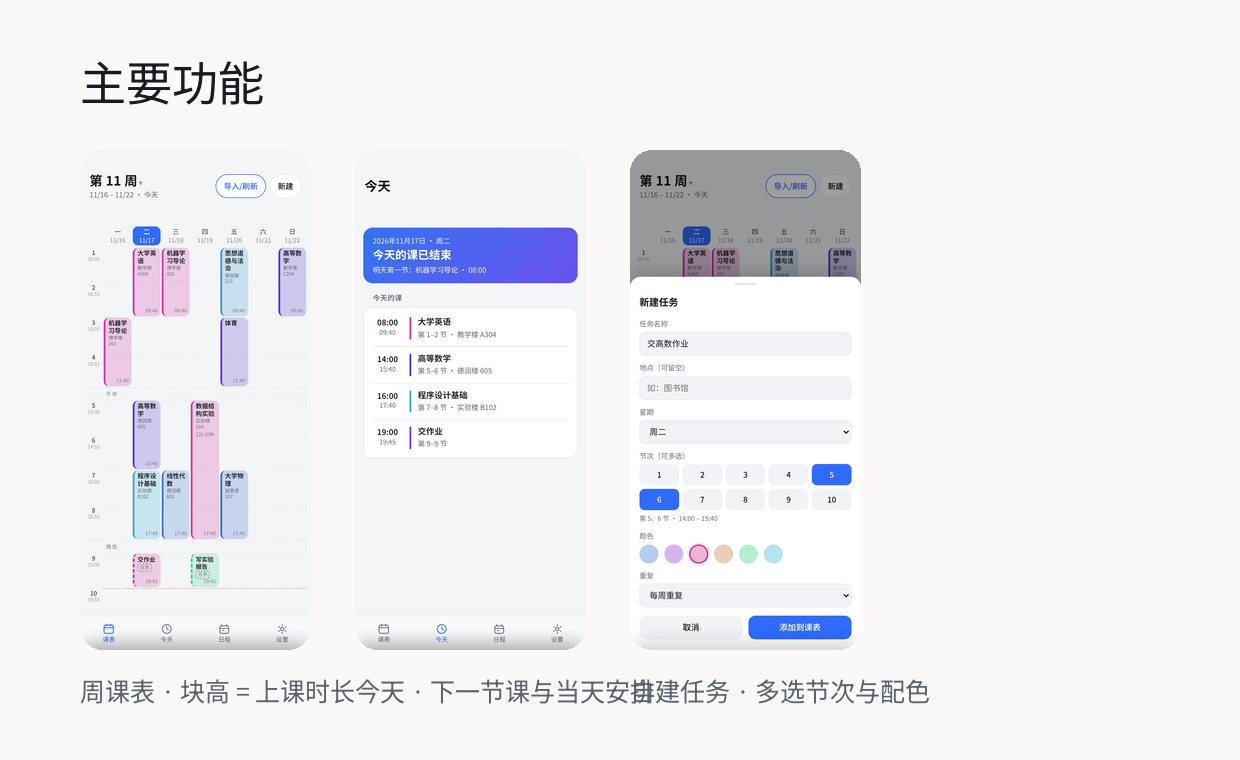
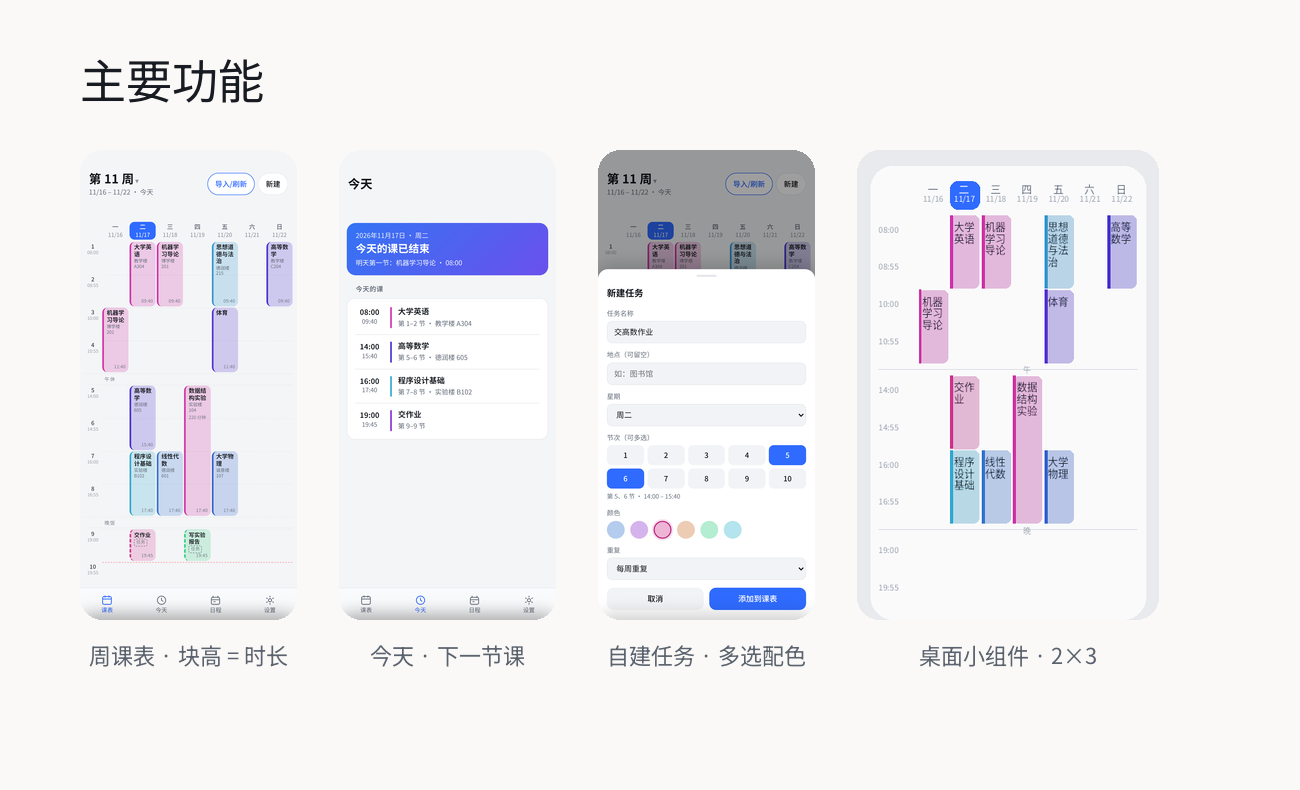
docs: 功能图加入桌面小组件板块

diff --git a/README.md b/README.md
@@ -46,6 +46,10 @@ docs/                截图
 |---|---|---|
 | ![周课表](docs/week.png) | ![今天](docs/today.png) | ![新建任务](docs/task.png) |
 
+![桌面小组件](docs/widget.png)
+
+> 桌面小组件为 2×3 尺寸，显示整周课表与今天的高亮。
+
 ## 说明
 
 - 课表数据来自学校门户的 `v1/calendar/share/schedule/*` 接口，需要登录态；App 不保存账号密码，登录在系统 WebView 内完成
